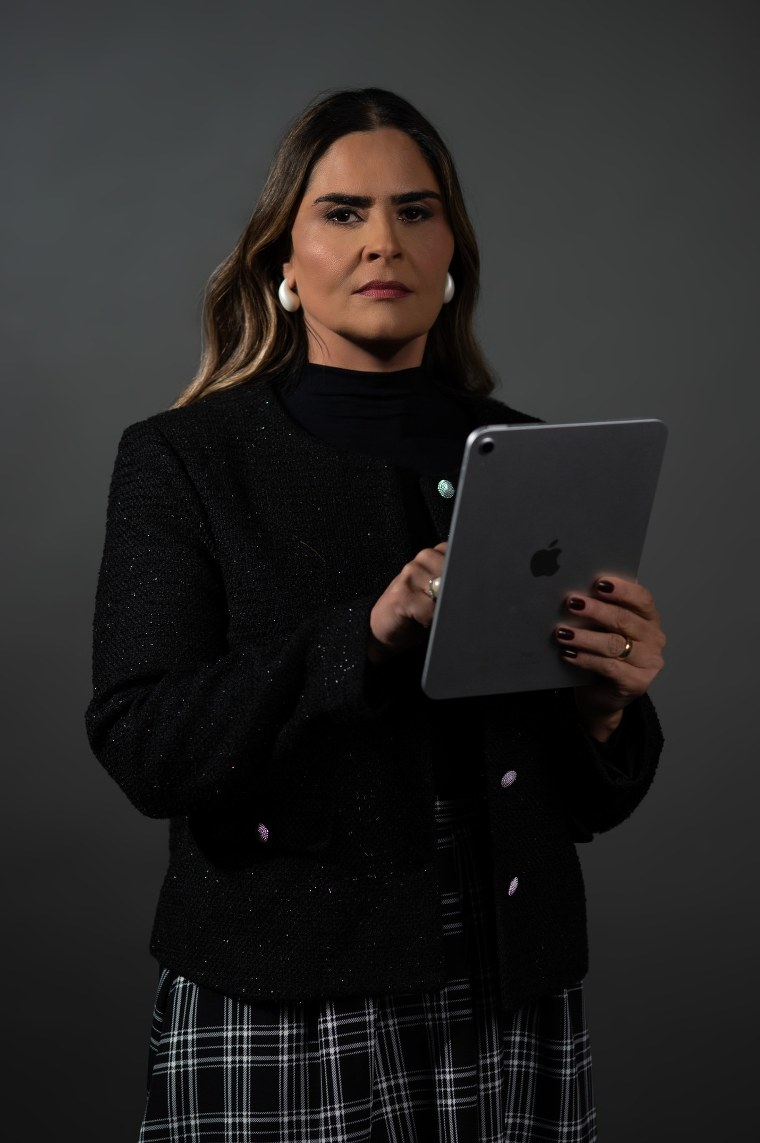
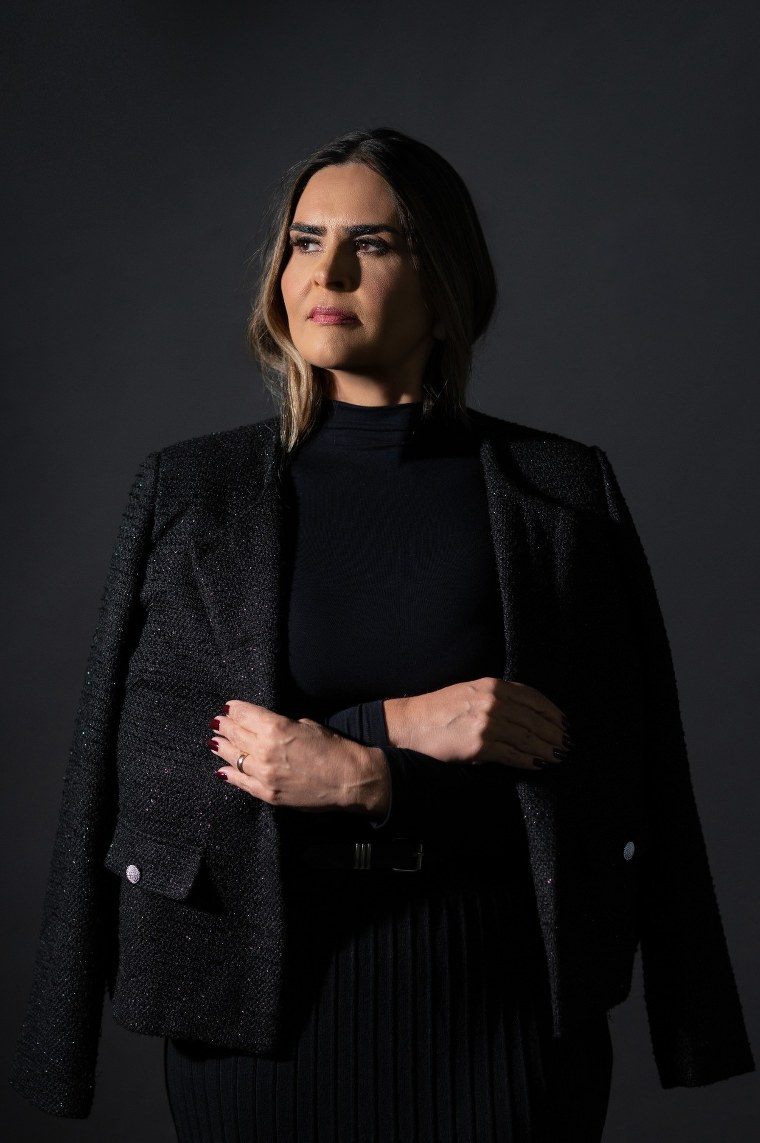
Nova foto no posicionamento e ajustes de texto
1. Foto do bloco de posicionamento trocada. A nova e mais escura: 86% dos
   pixels abaixo de luminancia 40. Nessa condicao a compressao deixa blocos
   visiveis na sombra, que aparecem num monitor de alta densidade, onde o
   arquivo e exibido quase 1:1. Em resolucao nativa, a q90 os blocos sao
   visiveis e a q96 nao. ferramentas/imagens.py ganha QUALIDADE_POR_FOTO
2. Direito Previdenciario: os tres paragrafos reescritos pela cliente
3. Inventarios e Sucessoes: 'analise tecnica' entra na lista

Claude-Session: https://claude.ai/code/session_014vYG6zrVR5x9bwv8jZzgLg

diff --git a/areas-de-atuacao/inventarios-e-sucessoes/index.html b/areas-de-atuacao/inventarios-e-sucessoes/index.html
@@ -77,7 +77,7 @@
     <div class="revelar">
       <span class="rotulo">Patrimônio, família e continuidade</span>
       <h2 style="font-size: var(--t-h2); margin-bottom: 1.8rem; max-width: 22ch;">Proteger um patrimônio construído ao longo dos anos, regulamentar os bens em vida e garantir que a transmissão deles pós-morte seja tranquila e estratégica.</h2>
-      <div class="prosa"><p>Na prática, o inventário responde a três perguntas: o que existe e como existe, quem tem direito e como herdar. Parece simples, mas é onde as famílias mais encontram dificuldades. Desde bens não registrados, imóveis não regularizados, dívidas esquecidas, novos herdeiros. Todas essas circunstâncias costumam apresentar empecilhos e conflitos difíceis de lidar.</p><p>Meu trabalho é conduzir essa etapa com clareza, sensibilidade e segurança jurídica, para que a família possa atravessá-la com mais tranquilidade. Cada história é única, e por isso cada caso recebe atenção individual, escuta cuidadosa e acompanhamento direcionado em todas as etapas até a conclusão.</p></div>
+      <div class="prosa"><p>Na prática, o inventário responde a três perguntas: o que existe e como existe, quem tem direito e como herdar. Parece simples, mas é onde as famílias mais encontram dificuldades. Desde bens não registrados, imóveis não regularizados, dívidas esquecidas, novos herdeiros. Todas essas circunstâncias costumam apresentar empecilhos e conflitos difíceis de lidar.</p><p>Meu trabalho é conduzir essa etapa com clareza, sensibilidade, análise técnica e segurança jurídica, para que a família possa atravessá-la com mais tranquilidade. Cada história é única, e por isso cada caso recebe atenção individual, escuta cuidadosa e acompanhamento direcionado em todas as etapas até a conclusão.</p></div>
     </div>
     <figure class="revelar revelar--imagem" data-atraso="1">
       <picture><source type="image/webp" sizes="(min-width: 1200px) 1100px, (min-width: 900px) 760px, (min-width: 600px) 760px, 95vw" srcset="../../assets/img/inventario-520.webp 520w, ../../assets/img/inventario-760.webp 760w, ../../assets/img/inventario-1100.webp 1100w, ../../assets/img/inventario-1300.webp 1300w"><img src="../../assets/img/inventario-760.jpg" alt="Inventários e Sucessões" loading="lazy" decoding="async" width="896" height="1372"></picture>

diff --git a/areas-de-atuacao/direito-previdenciario/index.html b/areas-de-atuacao/direito-previdenciario/index.html
@@ -77,7 +77,7 @@
     <div class="revelar">
       <span class="rotulo">INSS e benefícios</span>
       <h2 style="font-size: var(--t-h2); margin-bottom: 1.8rem; max-width: 22ch;">Entre o direito existir e o benefício ser concedido há um caminho de documentos, prazos e análise técnica.</h2>
-      <div class="prosa"><p>Por isso a análise vem primeiro. Levantamento do CNIS, conferência de vínculos, identificação de períodos especiais ou não registrados e comparação entre as regras aplicáveis ao seu caso.</p><p>Só depois disso faz sentido decidir o que pedir e quando pedir. Passando pela via administrativa e, se necessário, pela via judicial.</p><p>Oferecemos um trabalho técnico e direcionado, alinhado com as necessidades do meu cliente, em consonância com os julgados e inovações legislativas.</p></div>
+      <div class="prosa"><p>Por isso, a análise vem primeiro: levantamento do CNIS, conferência de vínculos, identificação de períodos especiais ou não registrados e comparação entre as regras aplicáveis ao seu caso.</p><p>Só depois dessa análise faz sentido decidir o que pedir e quando pedir, seja pela via administrativa ou, se necessário, pela via judicial.</p><p>Oferecemos um trabalho técnico e direcionado, alinhado às necessidades de cada cliente e em consonância com os entendimentos dos tribunais e as inovações legislativas.</p></div>
     </div>
     <figure class="revelar revelar--imagem" data-atraso="1">
       <picture><source type="image/webp" sizes="(min-width: 1200px) 1100px, (min-width: 900px) 760px, (min-width: 600px) 760px, 95vw" srcset="../../assets/img/areas-520.webp 520w, ../../assets/img/areas-760.webp 760w, ../../assets/img/areas-1100.webp 1100w"><img src="../../assets/img/areas-760.jpg" alt="Direito Previdenciário" loading="lazy" decoding="async" width="896" height="1372"></picture>

diff --git a/ferramentas/imagens.py b/ferramentas/imagens.py
@@ -31,6 +31,16 @@ DESTINO = RAIZ / "src" / "img"
 QUALIDADE_WEBP = 90
 QUALIDADE_JPG = 88
 
+# Fotografias muito escuras precisam de mais qualidade: a compressão deixa
+# blocos visíveis na sombra, que aparecem num monitor de alta densidade, onde
+# o arquivo é exibido quase 1:1. Em posicionamento.jpg, 86% dos pixels estão
+# abaixo de luminância 40 — a q90 os blocos do fundo são visíveis, a q96 não.
+# Compare sempre em resolução nativa, não na largura de exibição: ao reduzir,
+# o navegador borra o artefato e a diferença some.
+QUALIDADE_POR_FOTO = {
+    "posicionamento": 96,
+}
+
 # Degraus do srcset. Um original mais estreito simplesmente não gera os
 # maiores — build.py monta o srcset a partir dos arquivos que existem, com a
 # largura real de cada um, então nada é anunciado sem existir.
@@ -48,6 +58,7 @@ def gerar(origem: Path) -> None:
     for velho in DESTINO.glob(f"{nome}-*.webp"):
         velho.unlink()
 
+    qualidade = QUALIDADE_POR_FOTO.get(nome, QUALIDADE_WEBP)
     larguras = sorted({w for w in DEGRAUS if w < largura} | {largura})
     saidas = []
     for w in larguras:
@@ -59,7 +70,7 @@ def gerar(origem: Path) -> None:
             )
         pil = Image.fromarray(cv2.cvtColor(peq, cv2.COLOR_BGR2RGB))
         alvo = DESTINO / f"{nome}-{w}.webp"
-        pil.save(alvo, "WEBP", quality=QUALIDADE_WEBP, method=6)
+        pil.save(alvo, "WEBP", quality=qualidade, method=6)
         saidas.append(f"{w}={alvo.stat().st_size // 1024}KB")
         if w == 760:
             pil.save(
@@ -69,7 +80,7 @@ def gerar(origem: Path) -> None:
                 optimize=True,
                 progressive=True,
             )
-    print(f"{nome:16s} origem {largura}x{altura}  ->  " + "  ".join(saidas))
+    print(f"{nome:16s} origem {largura}x{altura}  q{qualidade}  ->  " + "  ".join(saidas))
 
 
 def main() -> None:
